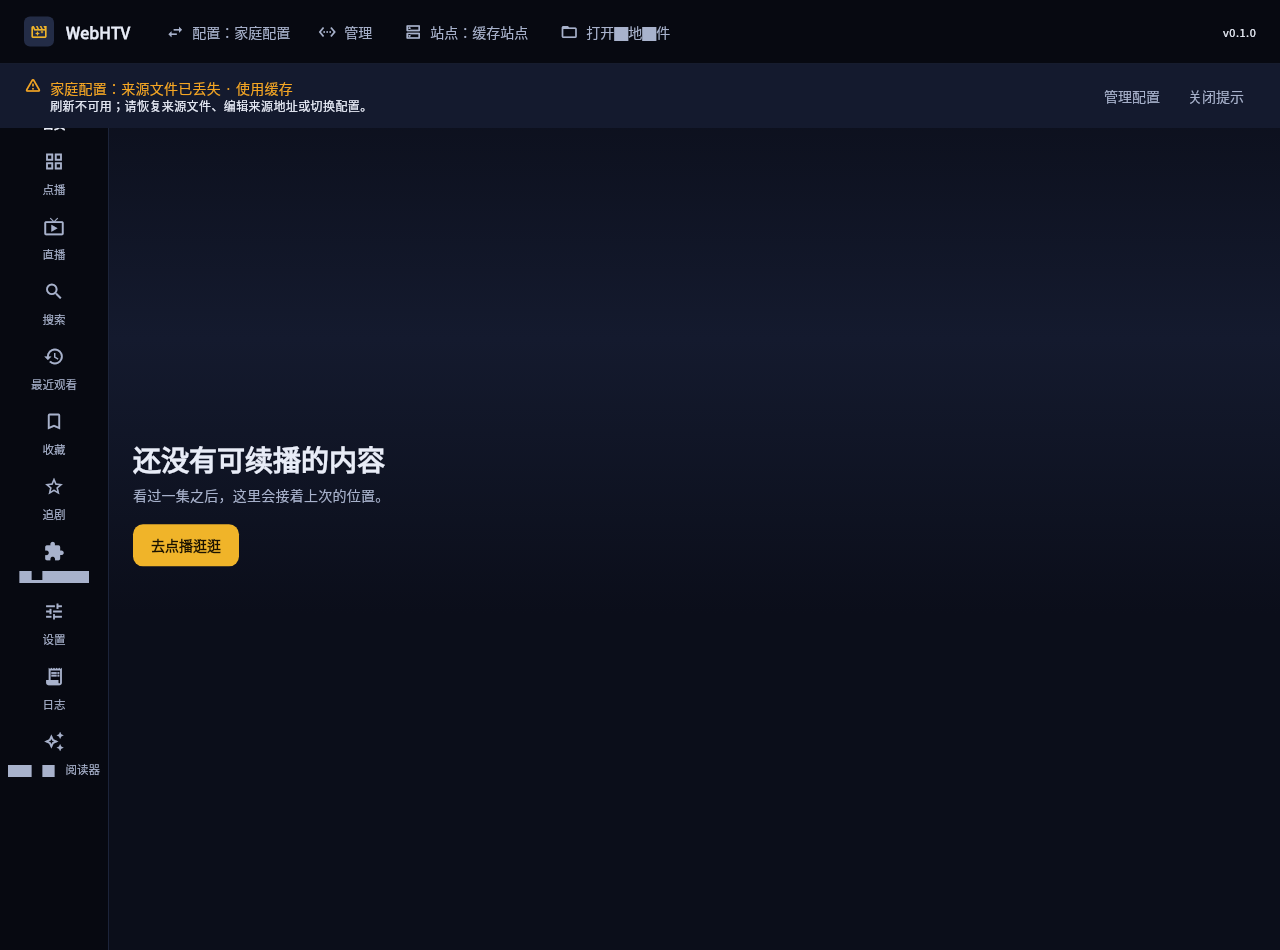
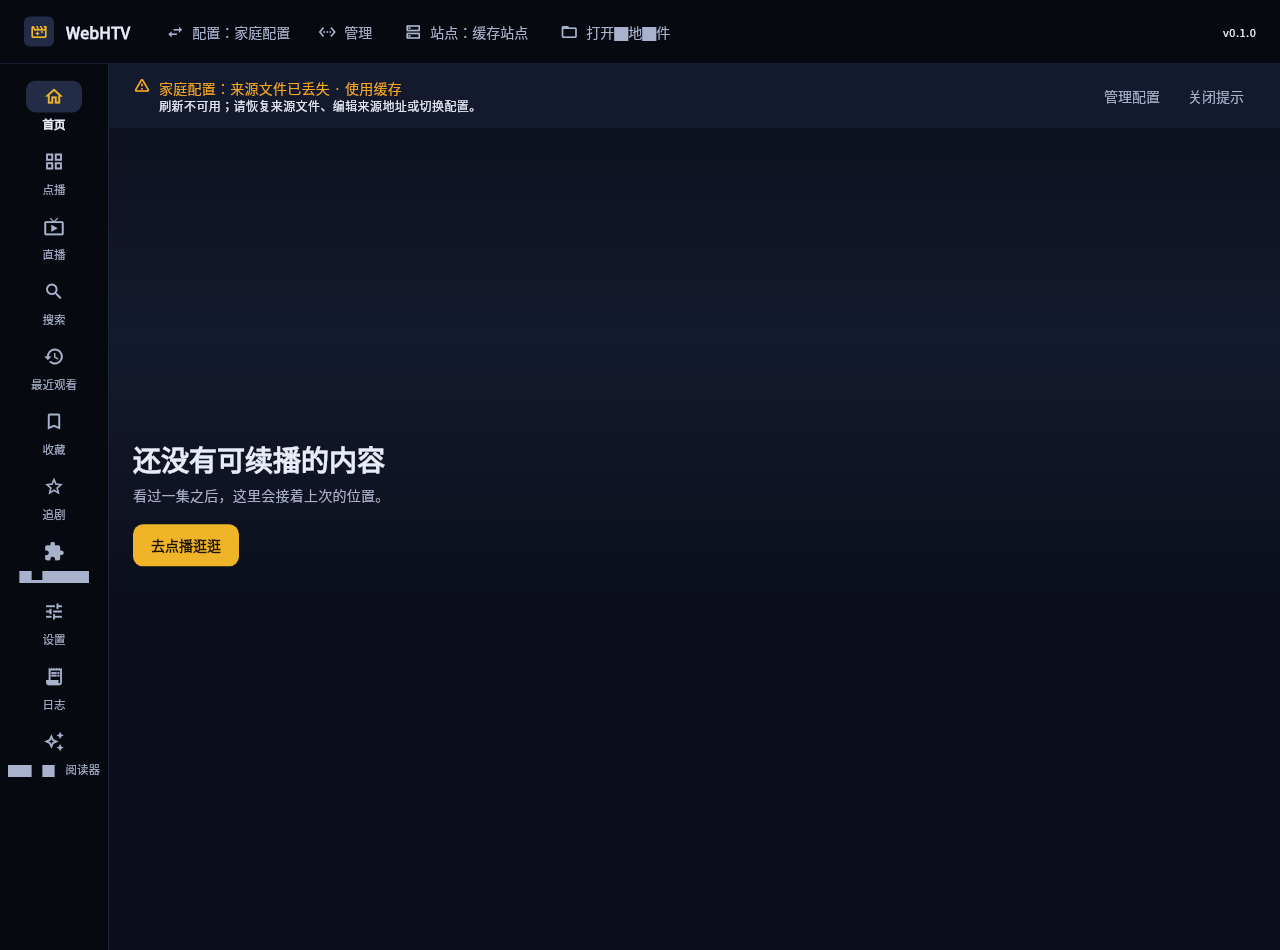
修复：启动提示仅在内容区悬浮，避免遮挡左侧导航
将悬浮层限制在侧栏右侧的内容区，保留顶部横条样式和无布局占位行为。新增边界断言与暗亮主题下通知显示时仍可点击首页的回归。

Changed region(s): [[0.0, 0.0611, 0.375, 0.1526]]

diff --git a/apps/desktop-flutter/lib/ui/app.dart b/apps/desktop-flutter/lib/ui/app.dart
@@ -1052,47 +1052,47 @@ class _AppShellState extends State<AppShell> {
             onOpenLocalFile: _openLocalMediaFile,
           ),
           Expanded(
-            child: Stack(
-              fit: StackFit.expand,
+            child: Row(
               children: [
-                Row(
-                  children: [
-                    AppSideBar(
-                      section: _section,
-                      updateCount: _state.followingUpdateCount,
-                      onSelect: (value) => setState(() {
-                        // 手动进搜索页 = 一次全新的搜索，丢掉首页带过来的词。
-                        if (value == ShellSection.search) {
-                          _pendingSearchKeyword = null;
-                        }
-                        _section = value;
-                      }),
-                    ),
-                    const VerticalDivider(width: 1),
-                    Expanded(
-                      child: _WallpaperBackdrop(
-                        url: _state.config?.wallpaper,
-                        child: AppShellTransition(
+                AppSideBar(
+                  section: _section,
+                  updateCount: _state.followingUpdateCount,
+                  onSelect: (value) => setState(() {
+                    // 手动进搜索页 = 一次全新的搜索，丢掉首页带过来的词。
+                    if (value == ShellSection.search) {
+                      _pendingSearchKeyword = null;
+                    }
+                    _section = value;
+                  }),
+                ),
+                const VerticalDivider(width: 1),
+                Expanded(
+                  child: _WallpaperBackdrop(
+                    url: _state.config?.wallpaper,
+                    child: Stack(
+                      fit: StackFit.expand,
+                      children: [
+                        AppShellTransition(
                           sectionIndex: _section.index,
                           child: _buildContent(),
                         ),
-                      ),
-                    ),
-                  ],
-                ),
-                if (startupNotifications.isNotEmpty)
-                  Positioned.fill(
-                    child: Align(
-                      alignment: Alignment.topCenter,
-                      child: SingleChildScrollView(
-                        primary: false,
-                        child: Column(
-                          mainAxisSize: MainAxisSize.min,
-                          children: startupNotifications,
-                        ),
-                      ),
+                        if (startupNotifications.isNotEmpty)
+                          Positioned.fill(
+                            child: Align(
+                              alignment: Alignment.topCenter,
+                              child: SingleChildScrollView(
+                                primary: false,
+                                child: Column(
+                                  mainAxisSize: MainAxisSize.min,
+                                  children: startupNotifications,
+                                ),
+                              ),
+                            ),
+                          ),
+                      ],
                     ),
                   ),
+                ),
               ],
             ),
           ),

diff --git a/apps/desktop-flutter/test/config_source_status_ui_test.dart b/apps/desktop-flutter/test/config_source_status_ui_test.dart
@@ -152,9 +152,11 @@ void main() {
     final sidebarWithWarning = tester.getRect(find.byType(AppSideBar));
     final contentWithWarning = tester.getRect(find.byType(AppShellTransition));
     final warning = tester.getRect(find.byKey(const ValueKey('config-source-restored-warning')));
-    expect(warning.left, 0, reason: 'Preserve the original full-width top banner');
-    expect(warning.right, 1280);
-    expect(warning.top, 64, reason: 'Keep the banner immediately below the top bar');
+    expect(warning.left, contentWithWarning.left,
+      reason: 'The banner must start at the content edge, not cover the sidebar');
+    expect(warning.right, contentWithWarning.right);
+    expect(warning.top, contentWithWarning.top,
+      reason: 'Keep the banner at the top of the content area');
     await tester.tap(find.byKey(const ValueKey('config-source-manage')));
     await tester.pumpAndSettle();
     expect(find.byType(ConfigPage), findsOneWidget);
@@ -182,11 +184,15 @@ void main() {
       await tester.pumpAndSettle();
       expect(tester.widget<AppSideBar>(find.byType(AppSideBar)).section, isNot(section),
         reason: 'The empty area outside the notification must not intercept content clicks');
+      expect(find.text('首页').hitTestable(), findsOneWidget,
+        reason: 'Startup notifications must never cover sidebar navigation');
+      await tester.tap(find.text('首页'));
+      await tester.pumpAndSettle();
+      expect(tester.widget<AppSideBar>(find.byType(AppSideBar)).section, section);
+      expect(find.byKey(const ValueKey('config-source-restored-warning')), findsOneWidget);
       await tester.tap(find.byKey(const ValueKey('config-source-dismiss')));
       await tester.pumpAndSettle();
       expect(find.byKey(const ValueKey('config-source-restored-warning')), findsNothing);
-      await tester.tap(find.text('首页'));
-      await tester.pumpAndSettle();
       expect(tester.getRect(find.byType(AppSideBar)), sidebar);
       expect(tester.getRect(find.byType(AppShellTransition)), content);
       expect(tester.takeException(), isNull);
